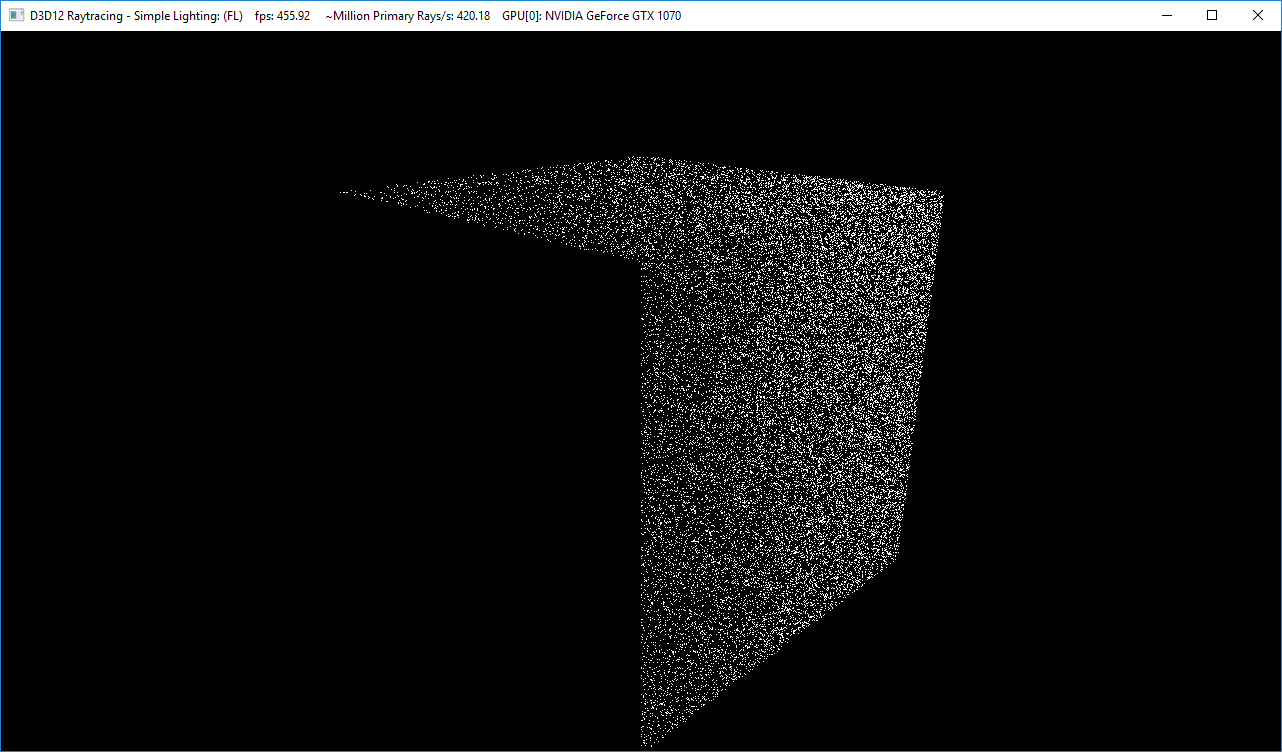
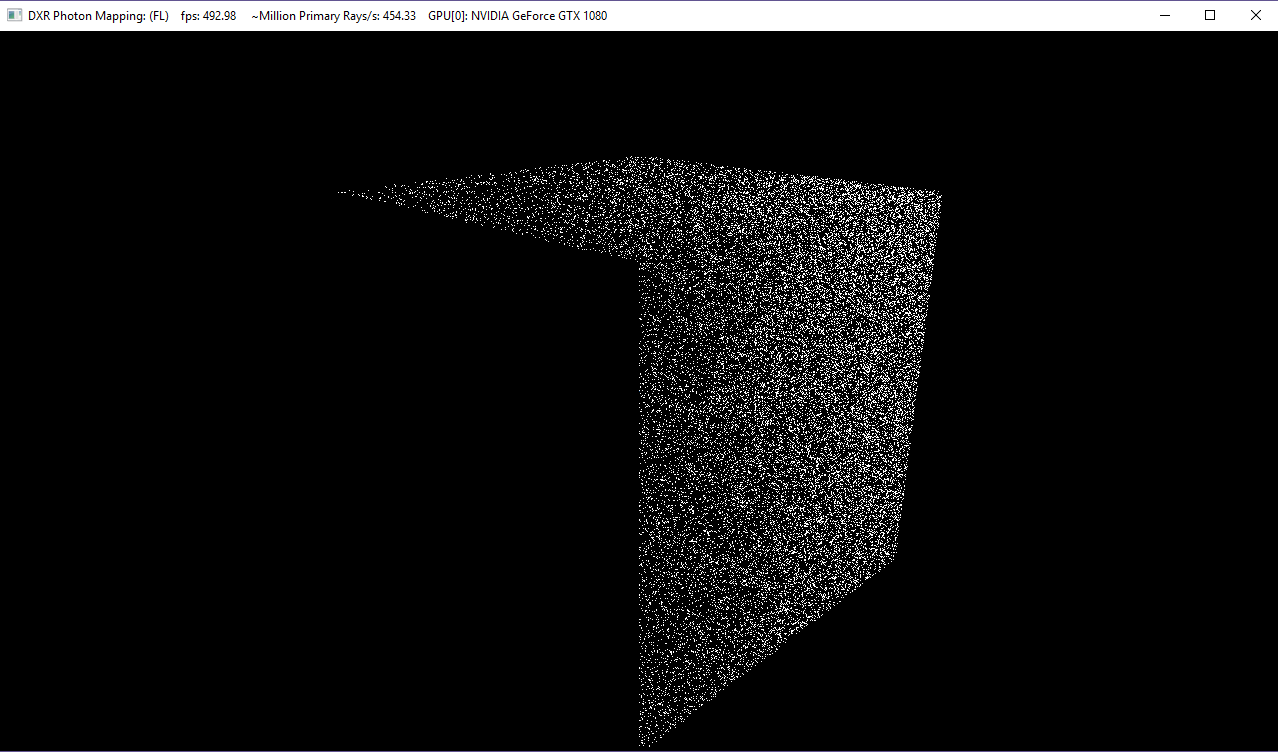
Updated Cover Image

diff --git a/PhotonMapper/PhotonMapper/Main.cpp b/PhotonMapper/PhotonMapper/Main.cpp
@@ -16,6 +16,6 @@
 _Use_decl_annotations_
 int WINAPI WinMain(HINSTANCE hInstance, HINSTANCE, LPSTR, int nCmdShow)
 {
-    PhotonMapperRenderer sample(1280, 720, L"D3D12 Raytracing - Simple Lighting");
+    PhotonMapperRenderer sample(1280, 720, L"DXR Photon Mapping");
     return Win32Application::Run(&sample, hInstance, nCmdShow);
 }
